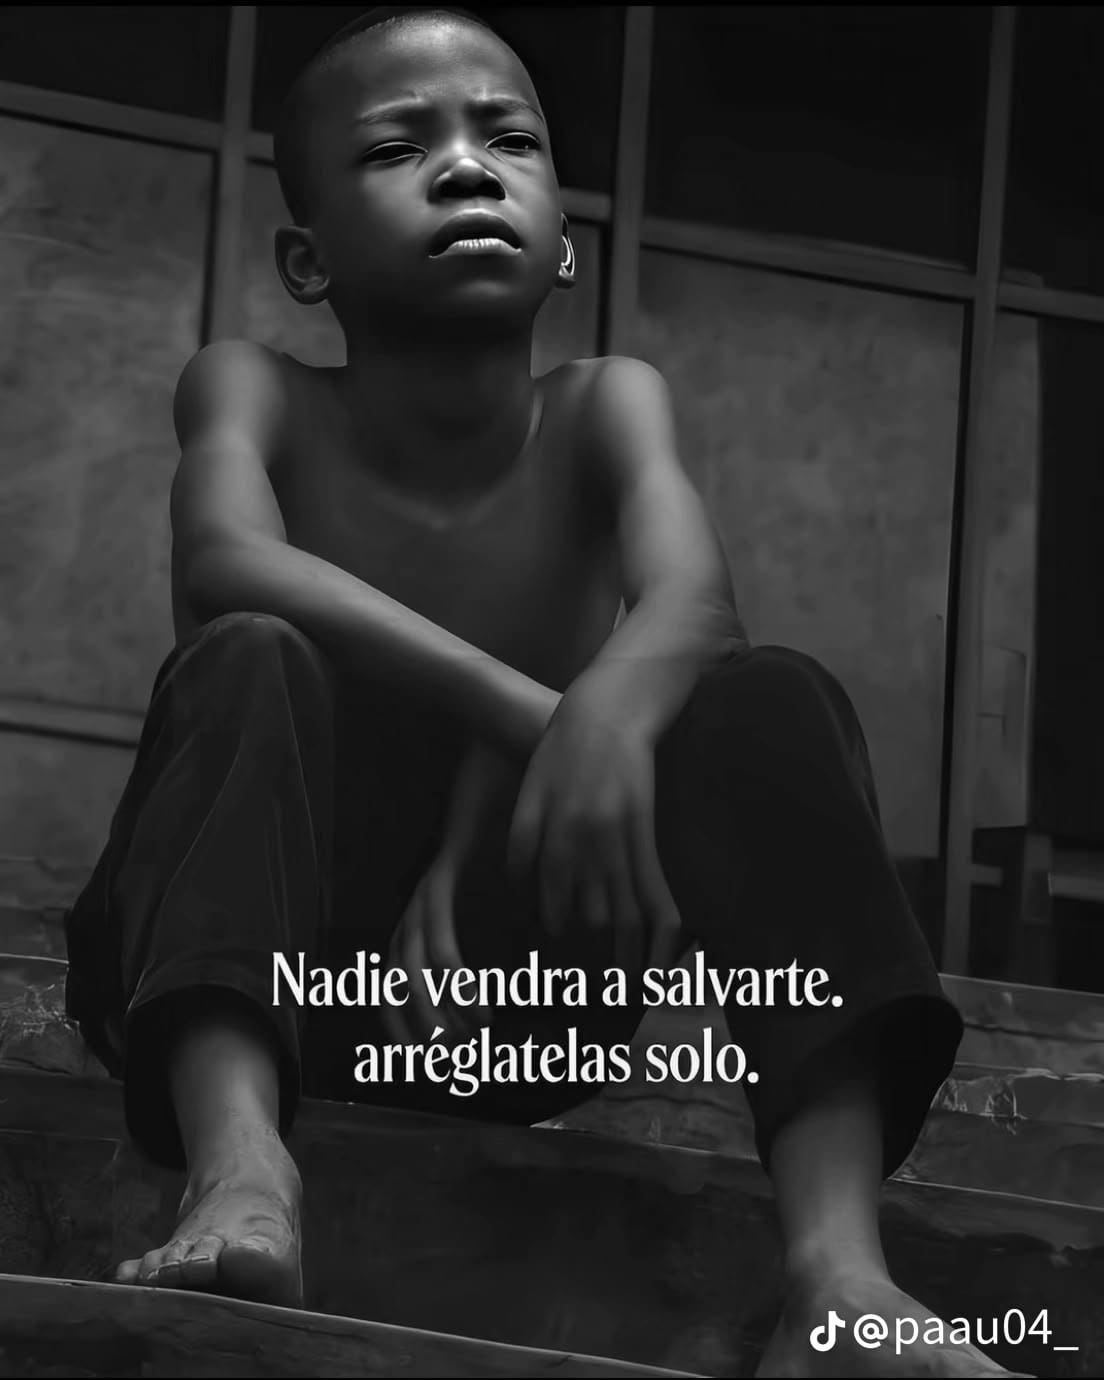
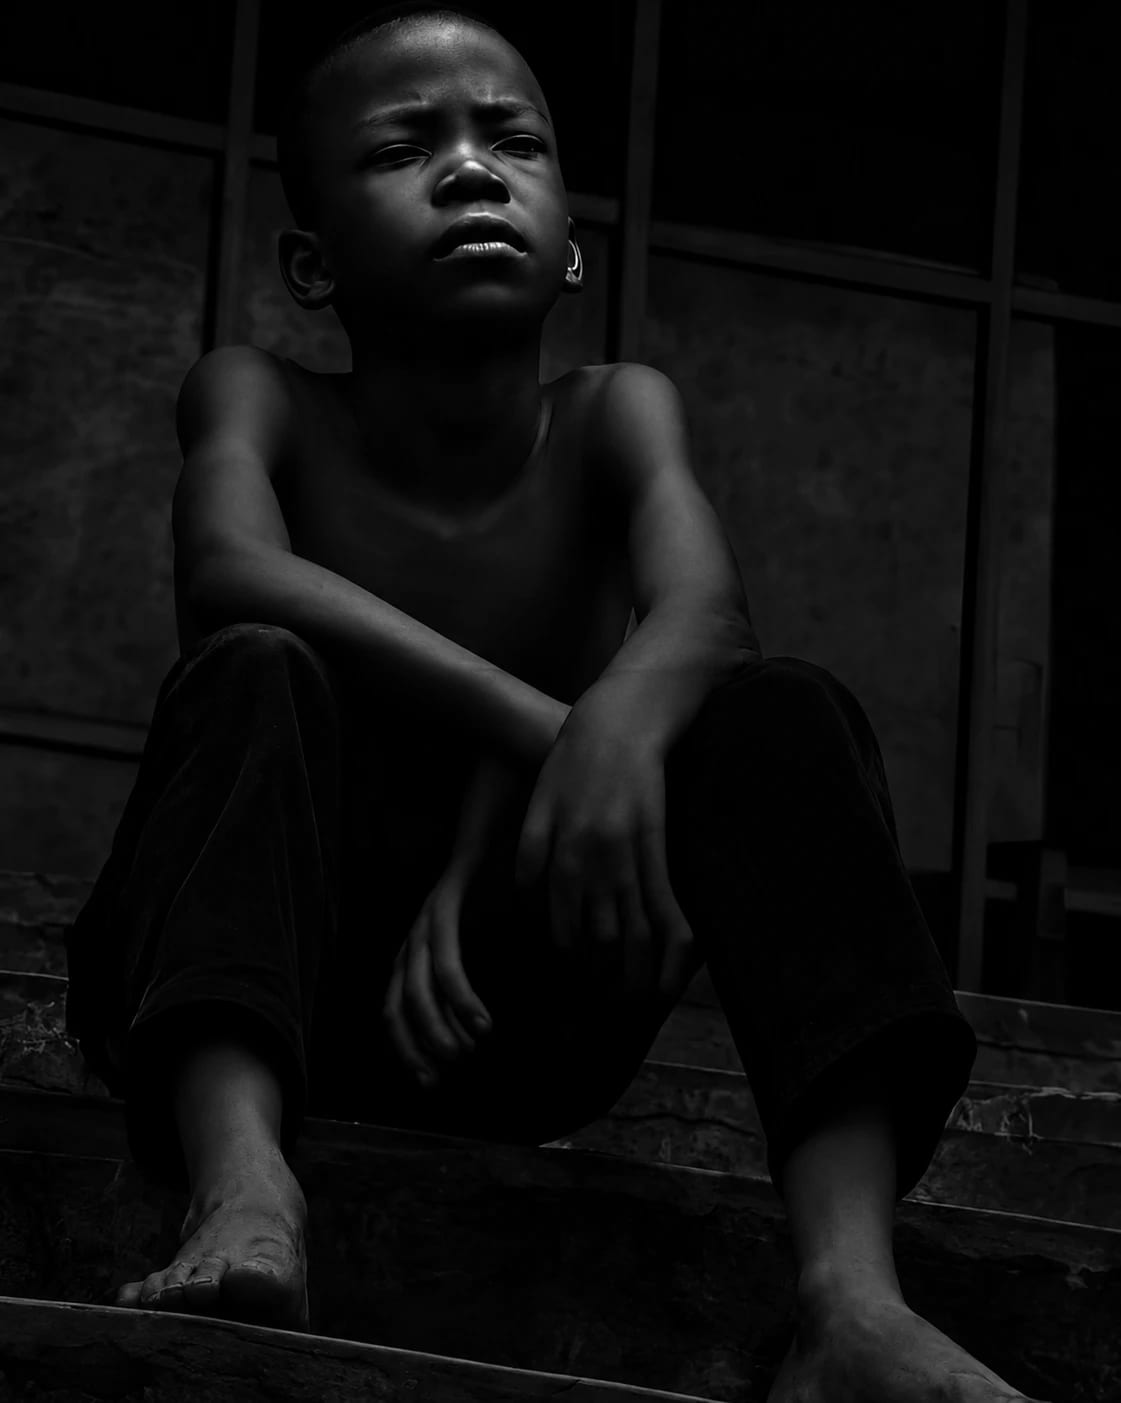
Foto del chico: la nueva (sin marca de agua ni texto), y centrada de verdad
La foto vieja tenía la marca de TikTok (@paau04_) visible en una
esquina y el texto "Nadie vendra a salvarte..." grabado encima. La
nueva no trae ninguna de las dos cosas: es un plano limpio del mismo
chico, mismo estilo. Se pasa por el mismo proceso que la anterior
(a escala de grises — confirmado antes por diferencia de canal, el
archivo ya venía prácticamente sin color: 5 sobre 255, ruido de
compresión).

El "centrala más" tenía una causa concreta: `background-position:
center` centra la FOTO, no la figura dentro de ella, y el panel
(angosto y muy alto) recorta bastante de los costados. Con la foto
vieja no se notaba tanto; con esta se veía al chico corrido a la
izquierda y un vacío grande a la derecha.

Encontrar la posición fue a prueba real en el panel, no a ojo sobre
el archivo suelto: cinco valores por tamaño, renderizados y mirados
en pantalla. Hizo falta un valor por separado para celular y para
escritorio — no por gusto, sino porque el panel cambia de proporción:
sigue el ancho de pantalla hasta los 477,3px (88vw = 420px) y de ahí
para arriba queda fijo en 420px mientras el alto sigue creciendo con
la ventana. Esa es la proporción real que separa los dos breakpoints,
no un número arbitrario de "cuándo es escritorio".

Verificado: contraste del texto del menú sobre la foto nueva, en los
dos temas y tamaños — 4.72–5.54:1, pasa el mínimo de 4.5:1 en los 8
casos aunque con poco margen en el peor. Deslizamiento del panel y de
[…]

diff --git a/css/tienda.css b/css/tienda.css
@@ -1296,7 +1296,14 @@ html.anima-menu .grain { display: none; }
       color-mix(in srgb, var(--ink) var(--velo-3), transparent) 100%),
     url("../img/menu-fondo.jpg");
   background-size: cover;
-  background-position: center;
+  /* `center` dejaba al chico corrido a la izquierda con un vacío
+     grande a la derecha: centra la FOTO, no la figura dentro de
+     ella, y el panel es angosto y alto, muy distinto a la foto
+     (4:5 aprox). Los dos valores salen de probar varias posiciones
+     en el panel real: el del celular no sirve en escritorio porque
+     ahí el panel es fijo a 420 px en vez de seguir el ancho de
+     pantalla, y la proporción panel/foto cambia. */
+  background-position: 20% 15%;
   background-repeat: no-repeat;
 
   /* Entra y sale deslizándose. `allow-discrete` es lo que deja animar
@@ -1306,6 +1313,14 @@ html.anima-menu .grain { display: none; }
   transition: translate var(--t-menu) var(--ease-menu),
               overlay var(--t-menu) var(--ease-menu) allow-discrete,
               display var(--t-menu) var(--ease-menu) allow-discrete;
+}
+
+/* 88vw = 420px a los 477,3px de ancho: justo ahí el panel deja de
+   seguir el ancho de pantalla (min(420px, 88vw)) y queda fijo en
+   420px, mientras el alto sigue siendo el de la ventana. Esa
+   proporción distinta pide otro recorte de la misma foto. */
+@media (min-width: 478px) {
+  .menu { background-position: 25% 55%; }
 }
 
 .menu[open] { display: flex; flex-direction: column; translate: 0 0; }
